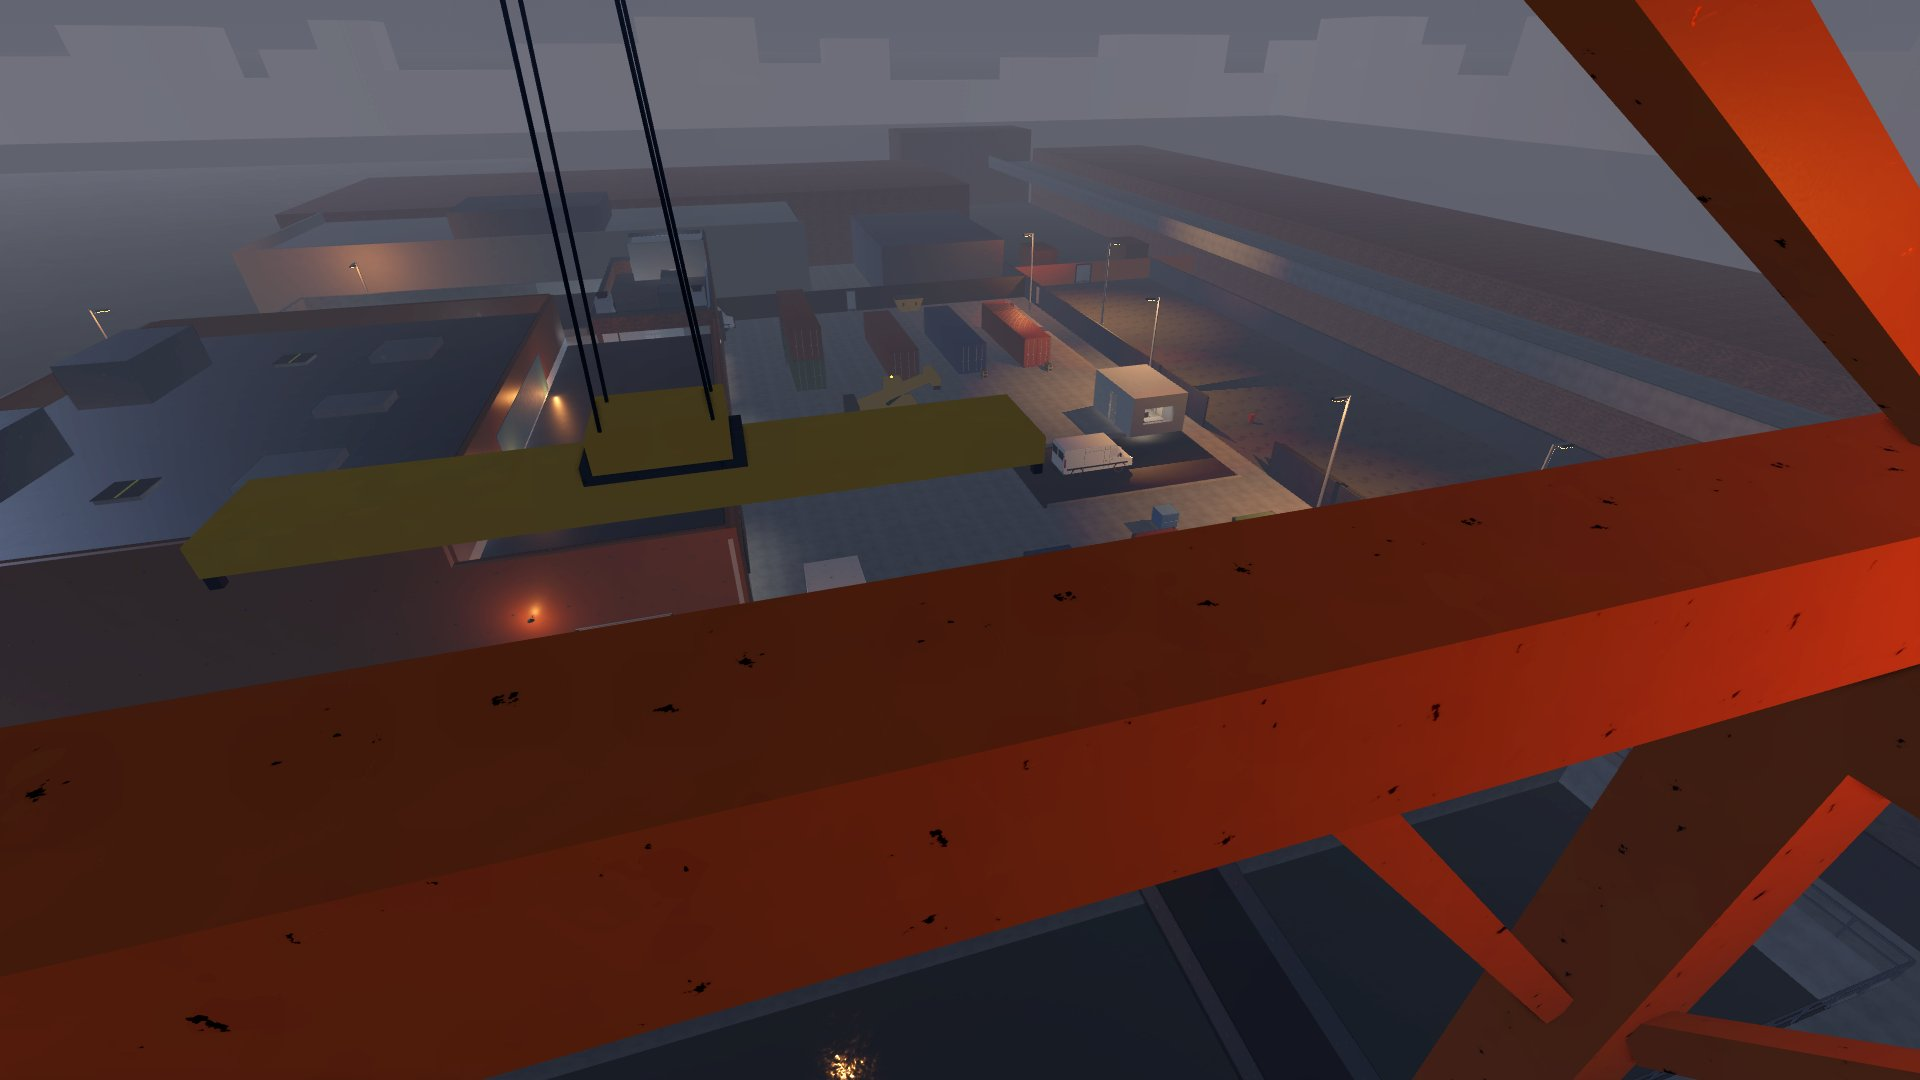
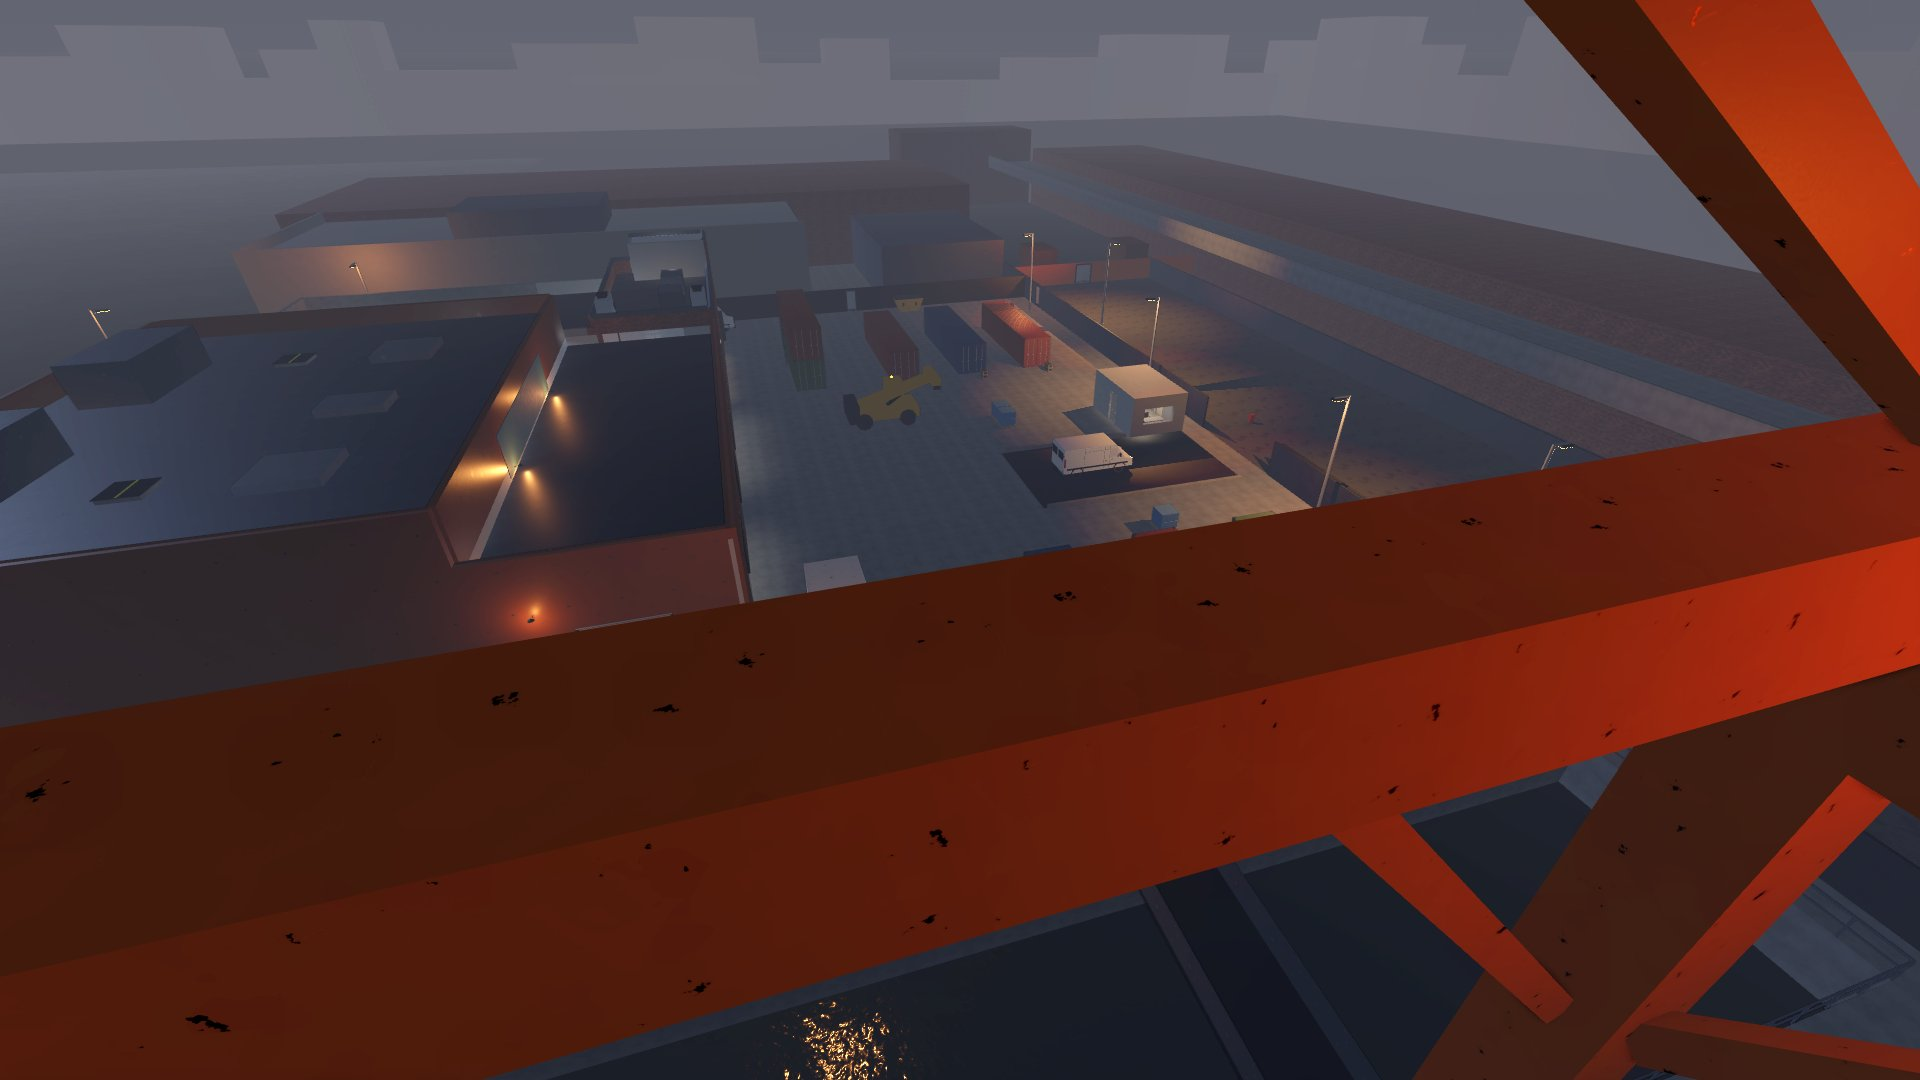
[DB-1] D-130 seated spawns on DB (chair Seat from the catalog, SEATS.snap after the dressing); ForemanChair +0.12 m so the sitter stays at z 2.0; trolley parked on the boom tail (clear S1 view); follow-up shots
- db_builder_base.chair: Seat = PropCatalog.seat(art); db_dress.dress ends with npc_seat_spawns.snap
  (GunmanPlatformA 2.12 -> 2.00 on ForemanChair: the validated DB-6 shin clearance kept); the Seat overrides of the
  other office chairs are rewritten. test_d130_chair_seats covers DB.
- veh_gantry_crane: trolley + spreader parked at x 89 (the spreader crossed the Longshot's view), flood moved.
- docs/levels/dockside_burn/followups: before / after shots (ExtYardEast, SniperCrane, LandingStage) and the current
  ChamberA / ChamberB (C1 / C2 told apart; no chamber change needed), shots.md; doc art notes.
- validate_level dockside_burn [final] PASS; navmesh unchanged by the chair move (2245 / 2276).

Claude-Session: https://claude.ai/code/session_01T5Xwi8DdzfABwGjjW46Axr

diff --git a/docs/levels/dockside_burn/followups/shots.md b/docs/levels/dockside_burn/followups/shots.md
@@ -1,0 +1,13 @@
+# Review shots: dockside_burn DB-1 follow-ups
+
+Rendered by `res://world/tools/review_shots.tscn` (opengl3 under xvfb, llvmpipe), one camera per run, 1920x1080.
+`before/` is the G2 state (sniper_crane / landing_stage are the G2 shots of 3d44dc97, unchanged since), `after/` the
+DB-1 state. The chamber shots were rendered on the current map to check the C1 / C2 variety (no chamber change).
+
+| camera | before | after | what changed |
+|---|---|---|---|
+| ExtYardEast | [before](before/ext_yard_east.jpg) | [after](after/ext_yard_east.jpg) | The Pier 10 crane: catalog `veh_gantry_crane` (legs on rail bogies, braces, A-frame + apex stays, box boom, trolley + spreader on the boom tail, floods) over the unchanged colliders; the `prop_beacon_hazard` beacons on the portal beams. |
+| SniperCrane | [before](before/sniper_crane.jpg) | [after](after/sniper_crane.jpg) | The camera now stands just west of the S1 cab's open front (inside, the cab roof blocks the cameras check's sky ray); the view over the yard / apron is clear (the trolley and spreader are parked behind the cab). The near beam is the west girder's collider, as before. |
+| LandingStage | [before](before/landing_stage.jpg) | [after](after/landing_stage.jpg) | The trawler: catalog `veh_trawler_dockside` (hull, wheelhouse with the S4 roof, mast + outriggers, stern A-frame, net drum, deck gear, fenders) over the unchanged colliders; it still closes the east view. |
+| ChamberA | [current](before/chamber_a.jpg) | - | C1: frosted cartons on the racking, frosted panels. |
+| ChamberB | [current](before/chamber_b.jpg) | - | C2 (ead0eb41): blue fish-box stacks, half-empty bays, bare steel panels, colder light: told apart from C1 at a glance; every C2 point of the doc's room row is in. |
